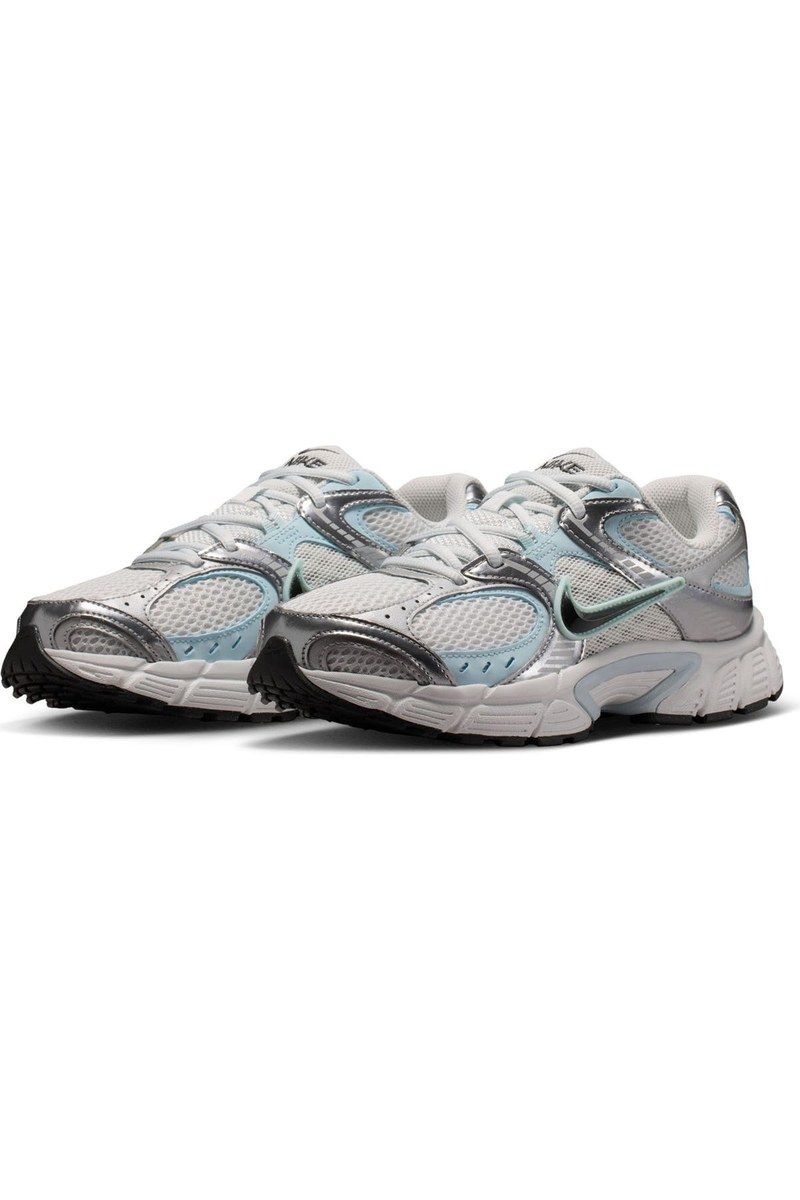
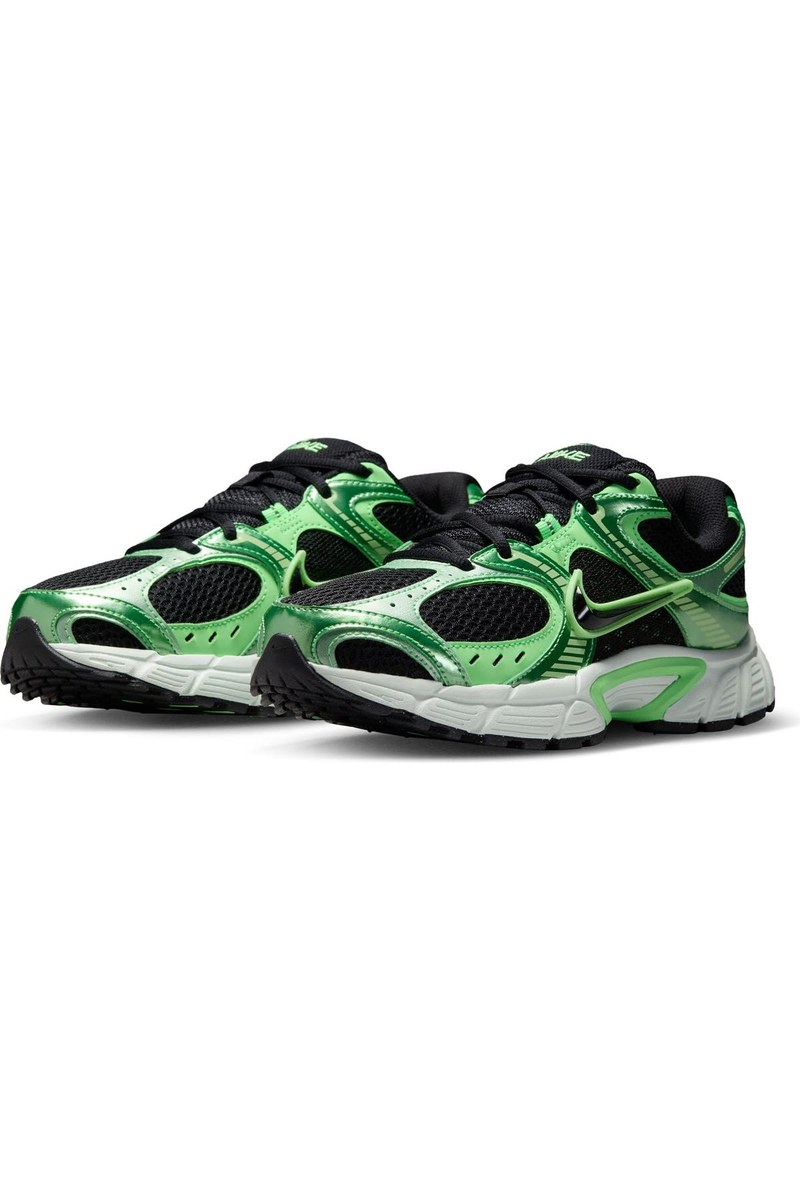
Fix Nike V5 RNR images (green colour)

Changed region(s): [[0.0, 0.3392, 1.0, 0.6475]]

diff --git a/item-7966380.html b/item-7966380.html
@@ -1,5 +1,5 @@
 <!doctype html><html lang="ru"><head><meta charset="utf-8"><meta name="viewport" content="width=device-width,initial-scale=1">
-<script type="application/ld+json">{"@context": "https://schema.org", "@type": "ItemList", "name": "Кроссовки Nike V5 RNR (женские)", "numberOfItems": 1, "itemListElement": [{"@type": "ListItem", "position": 1, "item": {"@type": "Product", "name": "Кроссовки Nike V5 RNR (женские)", "brand": {"@type": "Brand", "name": "Nike"}, "description": "Кроссовки в духе 2000-х: мягкий воротник и пенная амортизация, верх из сетки и синтетики с отражающими деталями, съёмная стелька, шнуровка. Массивная скульптурная подошва с раздельным профилем. Цвет — чёрный с акцентами Illusion Green.", "image": ["https://llenka-coder.github.io/childrensplace-clearance/item-images/item-7966380_0.jpg", "https://llenka-coder.github.io/childrensplace-clearance/item-images/item-7966380_1.jpg", "https://llenka-coder.github.io/childrensplace-clearance/item-images/item-7966380_2.jpg"], "additionalProperty": [{"@type": "PropertyValue", "name": "Цвет", "value": "Black / Black / Illusion Green — чёрный с зелёными акцентами"}, {"@type": "PropertyValue", "name": "Размеры в наличии", "value": "9.5"}], "offers": {"@type": "Offer", "price": "49.38", "priceCurrency": "USD", "priceSpecification": {"@type": "UnitPriceSpecification", "price": "95.00", "priceCurrency": "USD", "priceType": "https://schema.org/ListPrice"}, "availability": "https://schema.org/InStock"}}}]}</script>
+<script type="application/ld+json">{"@context": "https://schema.org", "@type": "ItemList", "name": "Кроссовки Nike V5 RNR (женские)", "numberOfItems": 1, "itemListElement": [{"@type": "ListItem", "position": 1, "item": {"@type": "Product", "name": "Кроссовки Nike V5 RNR (женские)", "brand": {"@type": "Brand", "name": "Nike"}, "description": "Кроссовки в духе 2000-х: мягкий воротник и пенная амортизация, верх из сетки и синтетики с отражающими деталями, съёмная стелька, шнуровка. Массивная скульптурная подошва с раздельным профилем. Цвет — ярко-зелёный с чёрными акцентами (Illusion Green).", "image": ["https://llenka-coder.github.io/childrensplace-clearance/item-images/item-7966380_0.jpg", "https://llenka-coder.github.io/childrensplace-clearance/item-images/item-7966380_1.jpg", "https://llenka-coder.github.io/childrensplace-clearance/item-images/item-7966380_2.jpg"], "additionalProperty": [{"@type": "PropertyValue", "name": "Цвет", "value": "Black / Black / Illusion Green — ярко-зелёный с чёрными акцентами"}, {"@type": "PropertyValue", "name": "Размеры в наличии", "value": "9.5"}], "offers": {"@type": "Offer", "price": "49.38", "priceCurrency": "USD", "priceSpecification": {"@type": "UnitPriceSpecification", "price": "95.00", "priceCurrency": "USD", "priceType": "https://schema.org/ListPrice"}, "availability": "https://schema.org/InStock"}}}]}</script>
 <title>Кроссовки Nike V5 RNR (женские) — $49.38</title>
 <style>
 body{margin:0;background:#f6f6f4;color:#151515;font-family:-apple-system,BlinkMacSystemFont,'Segoe UI',Arial,sans-serif}
@@ -24,8 +24,8 @@ h1{font-size:23px;margin:0}
 <div class="body">
   <div class="top"><span class="brand">Nike</span><span class="off">−48%</span></div>
   <h1>Кроссовки Nike V5 RNR (женские)</h1>
-  <div class="color">Black / Black / Illusion Green — чёрный с зелёными акцентами</div>
-  <p class="desc">Кроссовки в духе 2000-х: мягкий воротник и пенная амортизация, верх из сетки и синтетики с отражающими деталями, съёмная стелька, шнуровка. Массивная скульптурная подошва с раздельным профилем. Цвет — чёрный с акцентами Illusion Green.</p>
+  <div class="color">Black / Black / Illusion Green — ярко-зелёный с чёрными акцентами</div>
+  <p class="desc">Кроссовки в духе 2000-х: мягкий воротник и пенная амортизация, верх из сетки и синтетики с отражающими деталями, съёмная стелька, шнуровка. Массивная скульптурная подошва с раздельным профилем. Цвет — ярко-зелёный с чёрными акцентами (Illusion Green).</p>
   <div class="price">$49.38<span class="old">$95.00</span></div>
   <div class="szlab">Размеры в наличии · 1</div>
   <div class="chiprow"><span class='chip'>9.5</span></div>
